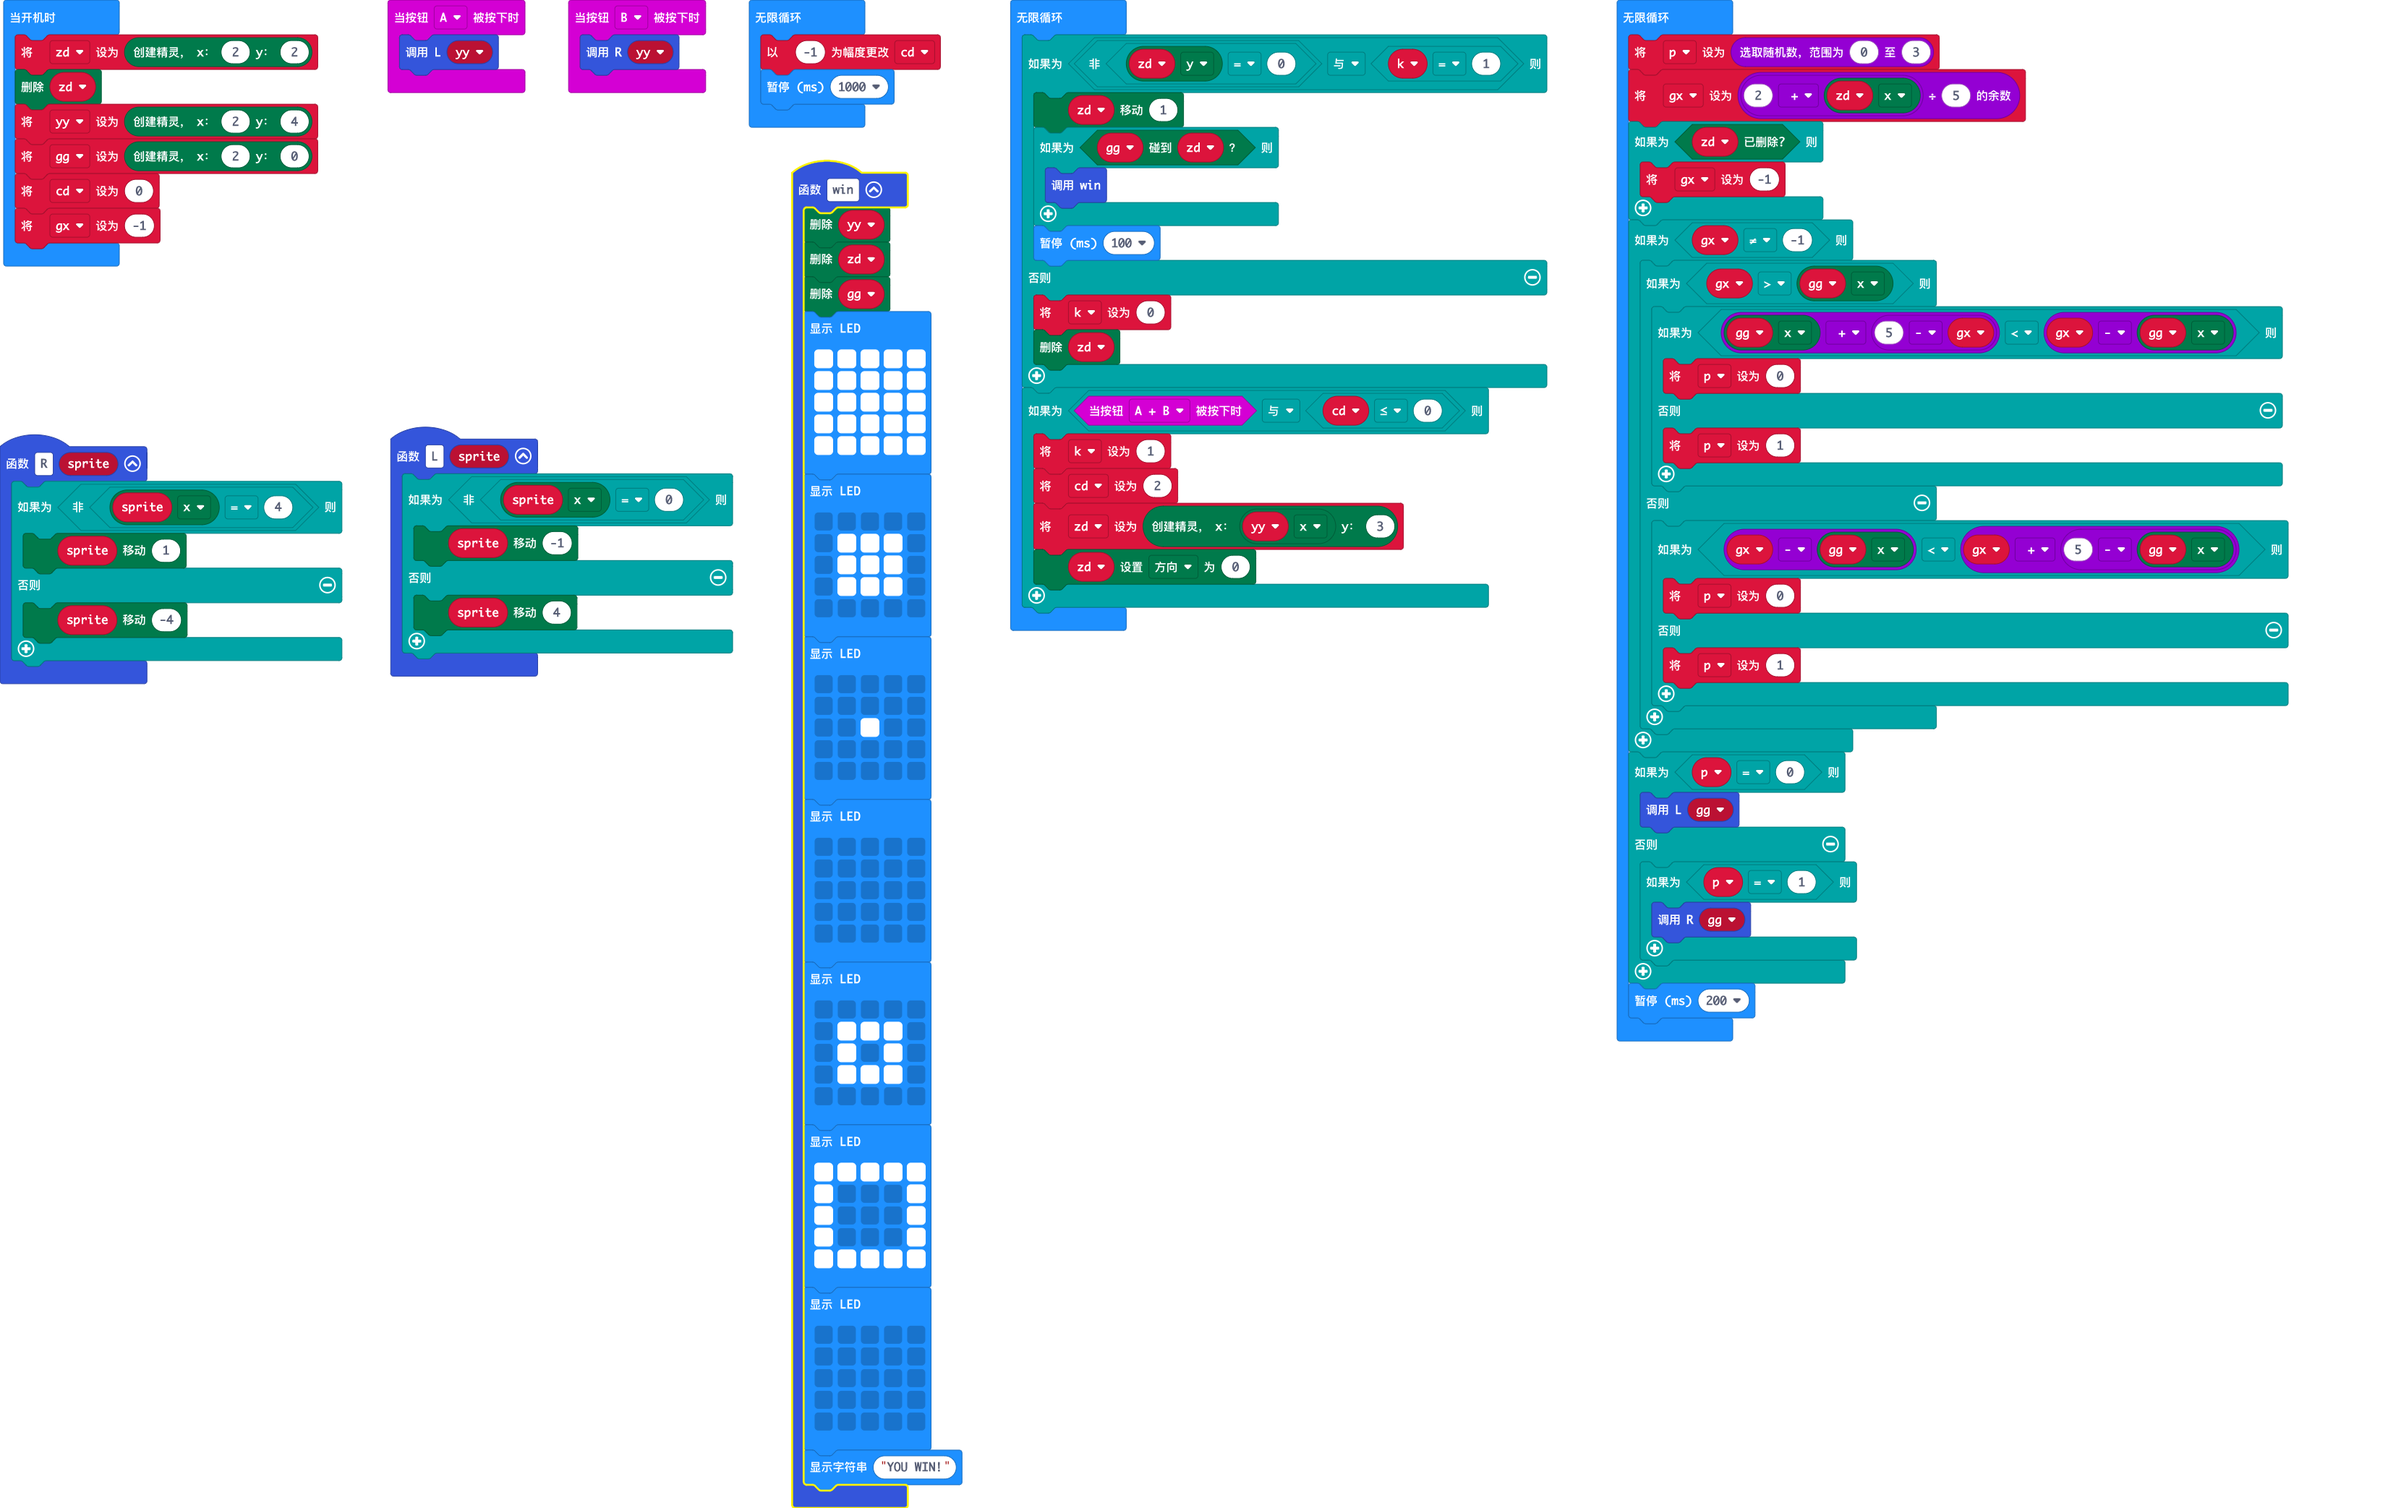
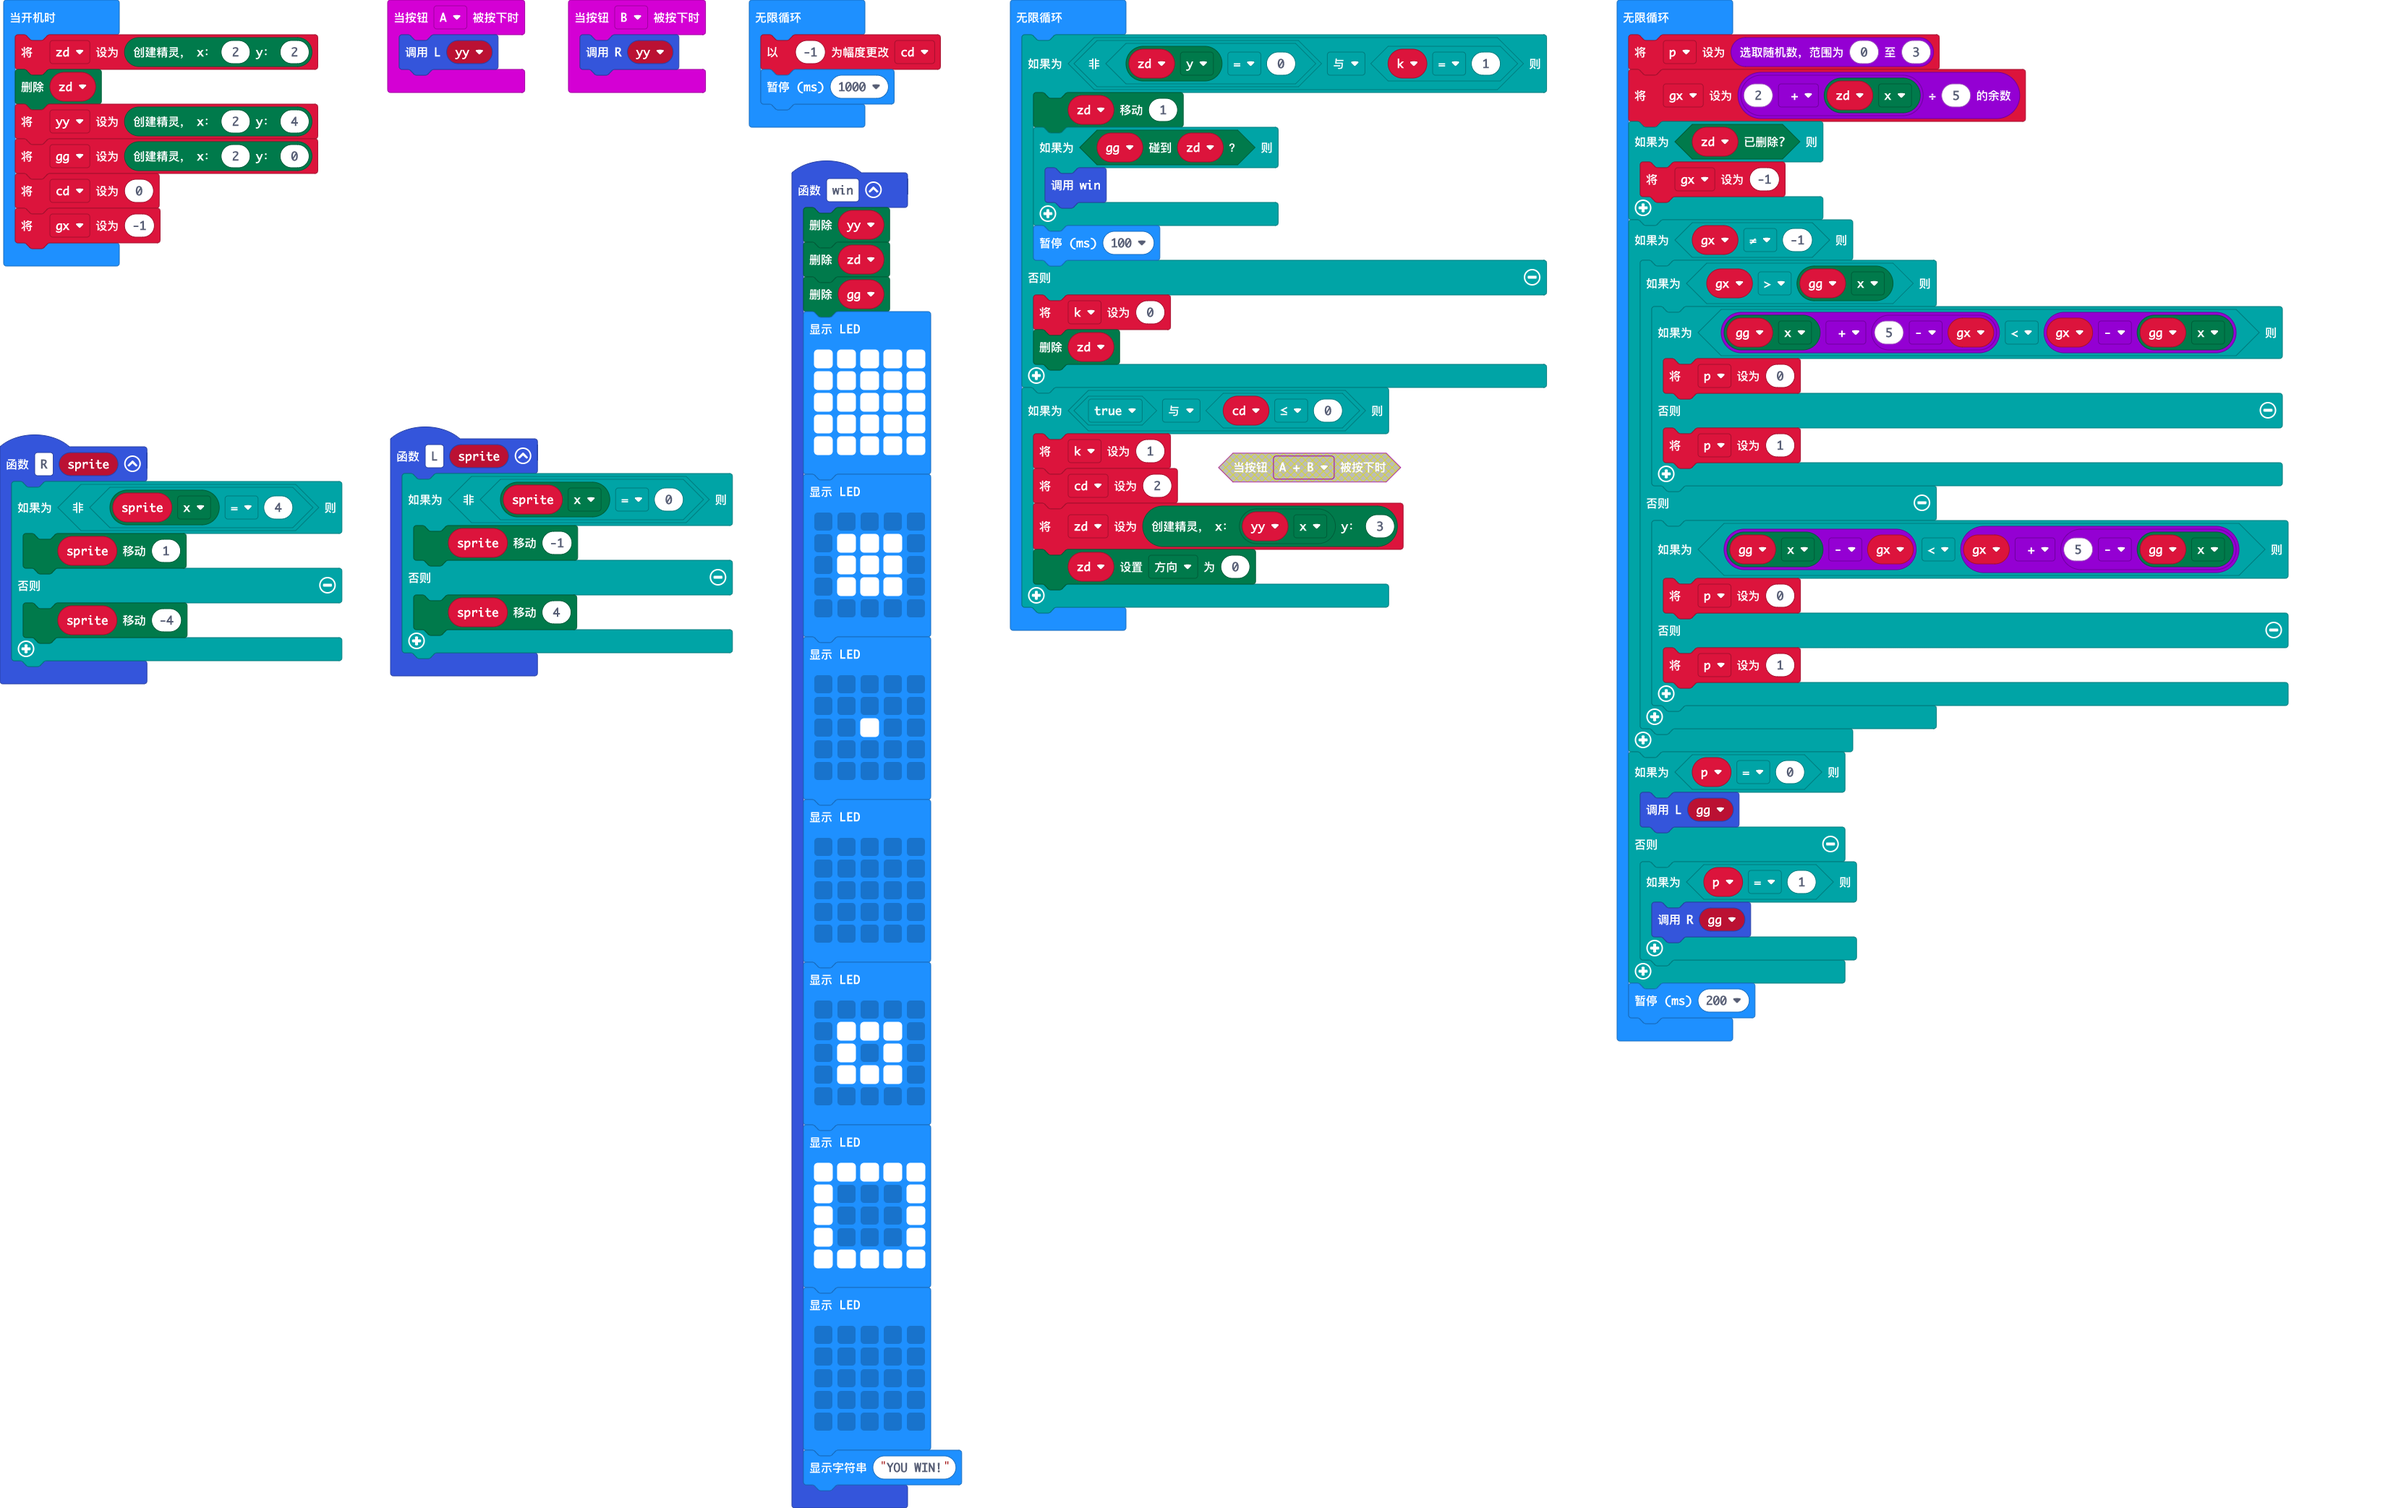
更新 main.blocks, main.ts

diff --git a/main.ts b/main.ts
@@ -99,7 +99,7 @@ basic.forever(function () {
         k = 0
         zd.delete()
     }
-    if (input.buttonIsPressed(Button.AB) && cd <= 0) {
+    if (true && cd <= 0) {
         k = 1
         cd = 2
         zd = game.createSprite(yy.get(LedSpriteProperty.X), 3)
@@ -120,7 +120,7 @@ basic.forever(function () {
                 p = 1
             }
         } else {
-            if (gx - gg.get(LedSpriteProperty.X) < gx + (5 - gg.get(LedSpriteProperty.X))) {
+            if (gg.get(LedSpriteProperty.X) - gx < gx + (5 - gg.get(LedSpriteProperty.X))) {
                 p = 0
             } else {
                 p = 1
